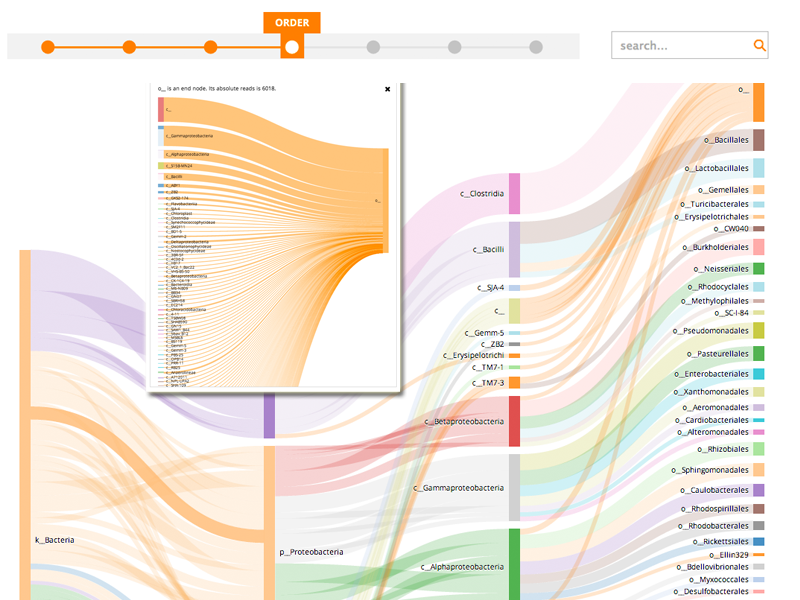
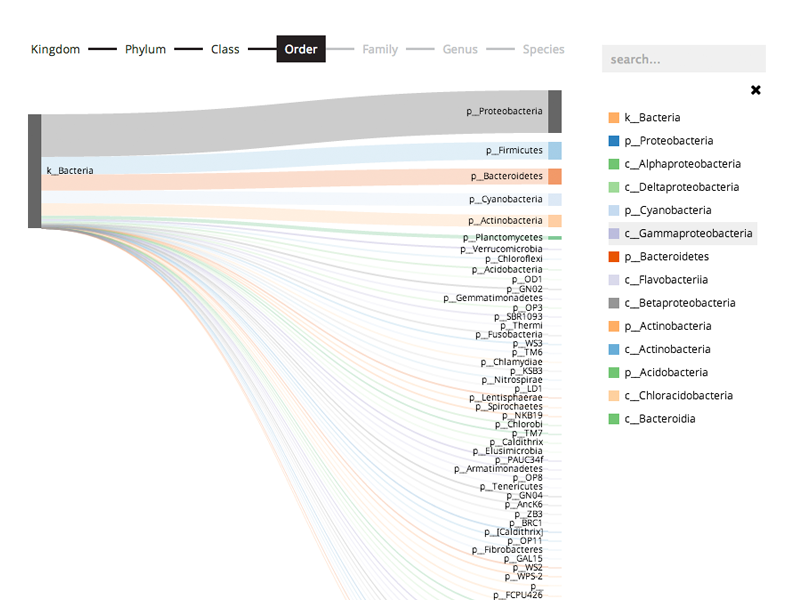
phinch grey style galleries

diff --git a/css/viz.css b/css/viz.css
@@ -7,6 +7,7 @@
 .col3 { float: left; width: 31%;  height: auto; min-height: 250px; margin: 0% 10px 2% 10px; border: 2px solid #241f20; font-size: 16px; color: #000;}
 .col3:hover { cursor: pointer; border: 2px solid #241f20; background-color: #241f20; color: #fff; -webkit-transition:.4s; -moz-transition:.4s; -o-transition:.4s; transition:.4s;}
 .col3 img { width: 100%; display: inline-block; border-top: 2px #241f20 solid;}
+#GraphGallery {margin-left: 10px;}
 .graphGalleryTitle { width: 100%; height: 25px; float: left; text-align: center;}
 
 #share_box { display: none; z-index: 5; background: #fff; border: 1px solid rgba(0,0,0,0.2); box-shadow: 0 3px 9px rgba(0,0,0,0.5); outline: 0; color: #222222; width: 700px; height: 300px; top: 310px; position: fixed; left: calc(40% - 250px);}
@@ -34,9 +35,9 @@
 
 /* Layer Switch Part */
 #layerSwitch { display: none;  width: 802px; height: 36px; margin: -80px 0px 0px 20px;}
-.rectLayer { float: left; padding: 0 10px; height: 33px; line-height: 33px; color: #919396; z-index: 3;}
+.rectLayer { float: left; padding: 0 10px; height: 33px; line-height: 33px; color: #c2c4c6; z-index: 3;}
 .rectLayer:hover { cursor: pointer; color: #fff; background-color: #241f20; -webkit-transition:.4s; -moz-transition:.4s; -o-transition:.4s; transition:.4s;}
-.cntline {width: 35px; height: 3px; float: left; border-top: 15px solid #fff; background-color: #919396; border-bottom: 15px solid #fff;}
+.cntline {width: 35px; height: 3px; float: left; border-top: 15px solid #fff; background-color: #c2c4c6; border-bottom: 15px solid #fff;}
 .selectedLayer {color: #241f20;}
 .selectedLine {background-color: #241f20;}
 
@@ -51,7 +52,7 @@
 
 #legend_header { display: none; position: fixed; top: 320px; right: 0px; width: 148px; height: 34px; border: none; color: #241f20; background-color: #f0f0f0; text-align: center; line-height: 34px;}
 #legend_header:hover { cursor: pointer;}
-#legend_container { opacity: 0; position: fixed; top: 354px; right: 0; border-left: 1px solid #c3c3c3; border-bottom: 1px solid #c3c3c3; background: rgba(255,255,255,0.6);}
+#legend_container { opacity: 0; position: fixed; top: 354px; right: 0; border-left: 1px solid #c3c3c3; border-bottom: 1px solid #c3c3c3; background: rgba(255,255,255,0.9);}
 #legend_container p { padding-left: 20px; font-size: 13px; margin: 10px 0 0 0;}
 #legend_container ul { font-size: 12px; line-height: 16px; list-style: none; margin: 10px 20px; padding: 0;}
 #legend_container ul em { float: right; color: #8d9195; font-style: normal;}
@@ -62,26 +63,29 @@
 #autoCompleteList {  display: none; position: absolute; right: 20px; top: 240px; font-size: 12px;  line-height: 16px;  border-radius: 3px;  background: rgba(255,255,255,0.9);  color: #000;  box-shadow: 0 1px 5px rgba(0,0,0,0.4);  -moz-box-shadow: 0 1px 5px rgba(0,0,0,0.4); overflow-y: scroll; max-height: 400px; z-index: 1;}
 #autoCompleteList ul { list-style: none; padding: 15px 10px 0px 15px;}
 #autoCompleteList ul li { padding: 5px 0;}
-#autoCompleteList ul li:hover{ background: rgba(239,193,79,0.6); cursor: pointer;}
-#autoCompleteList ul em { color: #ff8900; float: right; font-style: normal;}
+#autoCompleteList ul li:hover{ background: rgba(229,229,229,0.6); cursor: pointer;}
+#autoCompleteList ul em { color: #241f20; float: right; font-style: normal;}
 
 /* 1 Taxonomy Bar Chart */
+.PanelImg {position: absolute; margin-left: -30px; margin-top: -6px; height: 50px;}
+.PanelHead { color: #919191; margin: 10px; padding-bottom: 5px; line-height: 20px;}
+.PanelHead span { color: #241f20; font-size: 16px; font-weight: bold;}
+.PanelHead em { color: #241f20; font-weight: bold; font-style: normal;}
+.PanelHalf {width: 50%; float: left;}
+.PanelInfo { color: #919191; margin: 10px 10px -10px 10px;}
+.PanelInfo span { color: #241f20; font-size: 14px; font-weight: bold;}
 
-.PanelHead { color: #444; margin: 10px; padding-bottom: 5px; border-bottom: 1px solid #bbb;}
-.PanelInfo { color: #444; margin: 10px 10px -10px 10px;}
-.PanelInfo span { font-size: 14px; font-weight: bold;}
-
-.basicTooltip progress { width: 100%; height: 3px; padding: 0 10px; background-color: #fff; border: none; -webkit-appearance: none; appearance: none;}
-.basicTooltip progress[value]::-webkit-progress-bar { background-color: #bbb; }
-.basicTooltip progress[value]::-webkit-progress-value { background-color: #ff8900; }
-.basicTooltip progress[value]::-moz-progress-bar { background-color: #ff8900; color: red;}
+.basicTooltip progress { width: 100%; height: 25px; padding: 15px 10px 0 10px; background-color: transparent; border: none; -webkit-appearance: none; appearance: none;}
+.basicTooltip progress[value]::-webkit-progress-bar { background-color: #f0f0f0; }
+.basicTooltip progress[value]::-webkit-progress-value { background-color: #58595b; }
+.basicTooltip progress[value]::-moz-progress-bar { background-color: #58595b; color: #f0f0f0;}
 
 .hideSampleContainer { position: absolute; font-size: 12px; padding: 5px; }
-.hideSample { color: #ff8900; font-weight: bold; border: 2px solid #ff8900; margin: -35px 10px 0px 25px; padding: 5px 10px; background: #fff;}
+.hideSample { color: #241f20; font-weight: bold; border: none; margin: -35px 10px 0px 25px; padding: 5px 10px; background: #f0f0f0;}
 .hideSample:hover { cursor: pointer;}
 
 #deleteSampleArr { margin: 30px 0px 0px 20px;}
-#deleteSampleArr p { margin: 0; font-style: italic; color: #ff8900; }
+#deleteSampleArr p { margin: 0; font-style: italic; color: #241f20; }
 #deleteSampleArr span { cursor: pointer;}
 #deleteSampleArr ul { opacity: 0; width: 400px; list-style: none; padding: 20px 0 0 0;}
 #deleteSampleArr ul li { padding: 5px 10px;	}
@@ -94,16 +98,16 @@
 
 /* 2 Bubble Chart */
 
-#bubbleTooltip { padding: 10px 10px 5px 10px; }
+
 #bubblePanel { position: absolute; top: 350px; left: 200px; width: 880px; text-align: left; background: rgba(255,255,255,0.9);}
 #bubbleRemover { position: absolute; top:358px; left: 1050px; cursor: pointer;}
 
 .bubbleTaxHeader { width: 860px; height: 40px; font-size: 12px; line-height: 40px; padding-left: 40px; background: url('images/header.png') no-repeat;}
-.bubbleTaxHeader span { color: #c3c3c3; float: right; margin-right: 65px;}
+.bubbleTaxHeader span { color: #241f20; float: right; margin-right: 65px;}
 
-#bubbleSliderContainer { display: none; width: 180px; margin-left: 30px; margin-top: 15px; color: #ff8900; font-size: 12px;}
+#bubbleSliderContainer { display: none; width: 180px; margin-left: 30px; margin-top: 15px; color: #222020; font-size: 12px;}
 #bubbleSlider { width: 175px; position: absolute; height: 3px; border: none; background: #bbb;}
-#bubbleSlider .ui-widget-header { background: #ff8900;}
+#bubbleSlider .ui-widget-header { background: #241f20;}
 .sliderIcons { text-align: center; margin: 0px 5px -18px 0px;}
 #bubbleSliderLeft { margin-bottom: 10px;}
 #bubbleSliderRight { float: right; margin: -26px -4px 0 0;}
@@ -124,9 +128,9 @@
 
 /* 4 Donut Partition */
 
-.donutSwitch{ position: absolute; float: right; right: 20px; border: 2px solid #ff8900; height: 28px;}
-.donutSwitch button { border: none; margin: 0; height: 28px; color: #ff8900; background: #fff; padding: 0 10px; font-weight: bold; font-size: 12px;}
-.donutSwitch .clicked { color: #fff; background: #ff8900; -o-transition: background .6s; -ms-transition: background .6s; -moz-transition: background .6s; -webkit-transition: background .6s; transition: background .6s;}
+.donutSwitch{ position: absolute; float: right; right: 20px; border: 2px solid #.bubbleTaxHeader span; height: 28px;}
+.donutSwitch button { border: none; margin: 0; height: 28px; color: #241f20; background: #f0f0f0; padding: 0 10px; font-weight: bold; font-size: 12px;}
+.donutSwitch .clicked { color: #fff; background: #241f20; -o-transition: background .6s; -ms-transition: background .6s; -moz-transition: background .6s; -webkit-transition: background .6s; transition: background .6s;}
 
 /* 5 Attributes Column Chart */
 

diff --git a/css/utility.css b/css/utility.css
@@ -37,7 +37,7 @@ td { border: 2px #ccc solid; color: #ababab; height: 26px;}
 #file_details span { color: #000; font-size: 20px;}
 
 .orange_btn { width: 150px; height: 50px; float: right; border: none; font-size: 16px; background-color: #241f20; color: #fff; margin: 15px 20px 0 0;}
-.basicTooltip { position: absolute; font-size: 12px; color: #000; background: rgba(255,255,255,0.9); border: 1px solid rgba(200,200,200,0.85); border-radius: 3px; padding: 5px; box-shadow: 0 1px 5px rgba(0,0,0,0.4); -moz-box-shadow: 0 1px 5px rgba(0,0,0,0.4);}
+.basicTooltip { position: absolute; font-size: 12px; color: #000; background: #fff; border: 1px solid rgba(200,200,200,0.85); border-radius: 1px; padding: 5px; }
 
 /* ==========================================================================
    Normalize
@@ -148,12 +148,12 @@ a .icon-stack, a .icon-spin {display: inline-block;text-decoration: none;}
 .icon-file-text-o:before { content: "\f0f6"; }
 .icon-fa-times:before { content: "\f00d"; }
 .icon-fa-users:before { content: "\f03a"; }
-.icon-fa-level-up:before {  content: "\f0d8"; font-weight: bold; }
-.icon-fa-level-down:before {content: "\f0d7"; font-weight: bold; }
-.icon-circle:before {content: "\f111"; vertical-align: middle;}
+.icon-fa-level-up:before {  content: "\f0d8"; }
+.icon-fa-level-down:before {content: "\f0d7"; }
+.icon-circle:before {content: "\f111"; vertical-align: middle; padding: 0 3px;}
 .icon-download:before {content: "\f019";}
 .icon-chart:before {content: "\f080";}
 
-.icon-remove:hover {color: #241f20; cursor: pointer;}
-.icon-fa-level-up:hover { color: #ff8900; cursor: pointer;}
-.icon-fa-level-down:hover { color: #ff8900; cursor: pointer;}
+.icon-remove:hover {color: #babcbe; cursor: pointer;}
+.icon-fa-level-up:hover { color: #babcbe; cursor: pointer;}
+.icon-fa-level-down:hover { color: #babcbe; cursor: pointer;}

diff --git a/css/home.css b/css/home.css
@@ -15,17 +15,17 @@
 
 #fileContainer{ width: 800px; height: 180px; position: absolute; background-color: #E5E6E8; border: 50px #e5e6e7 solid; margin: -55px 0 0 -50px;}
 .file_btn {
-	color: #241f20;
-	background: #fff; 
+	color: #fff;
+	background: #241f20;
 	-webkit-transition:background 0.2s;
 	   -moz-transition:background 0.2s;
 	     -o-transition:background 0.2s;
 	        transition:background 0.2s;
 }
-.file_btn:hover { background: #241f20; color: #fff;}
+.file_btn:hover { background: #babcbe; color: #241f20;}
 #readFile { width: 800px; margin: 120px auto 0 auto;}
 #frmUpload { width: 797px; height: 60px; border-bottom: none; display: inline-block;}
-#fakeBrowse { width: 200px; height: 60px;  float: right; border: 4px solid #241f20; font-size: 20px;}
+#fakeBrowse { width: 200px; height: 60px;  float: right; border: none; font-size: 20px;}
 #txtFakeText { width: 585px; height: 54px; font-size: 18px;  text-align: center; }
 #fileDrag { width: 590px; height: 56px; margin-top: -58px; font-size: 20px; text-align: center; line-height: 60px; border-top: none; z-index:0; opacity:0; }
 #fileDrag.hover { z-index:5; opacity:1;}
@@ -56,7 +56,9 @@
 #parse {
 	width: 797px;
 	height: 60px; 
-	border: 4px solid #241f20;
+	border: none;
+	color: #fff;
+	background: #241f20;
 	font-size: 20px; 
 	-webkit-transition:background 0.2s;
 	   -moz-transition:background 0.2s;
@@ -65,8 +67,8 @@
 }
 
 #parse:hover {
-	background: #241f20;
-	color: #fff;
+	background: #babcbe;
+	color: #241f20;
 }
 
 #loadTestFile {

diff --git a/viz.html b/viz.html
@@ -28,7 +28,7 @@
 
     <!-- Disable Console Msg -->
     <script type="text/javascript">
-        if (false && !(window.console && console.log)) {(function() {
+        if (true || !(window.console && console.log)) {(function() {
             var noop = function() {};
             var methods = ['assert', 'clear', 'count', 'debug', 'dir', 'dirxml', 'error', 'exception', 'group', 'groupCollapsed', 'groupEnd', 'info', 'log', 'markTimeline', 'profile', 'profileEnd', 'markTimeline', 'table', 'time', 'timeEnd', 'timeStamp', 'trace', 'warn'];
             var length = methods.length;
